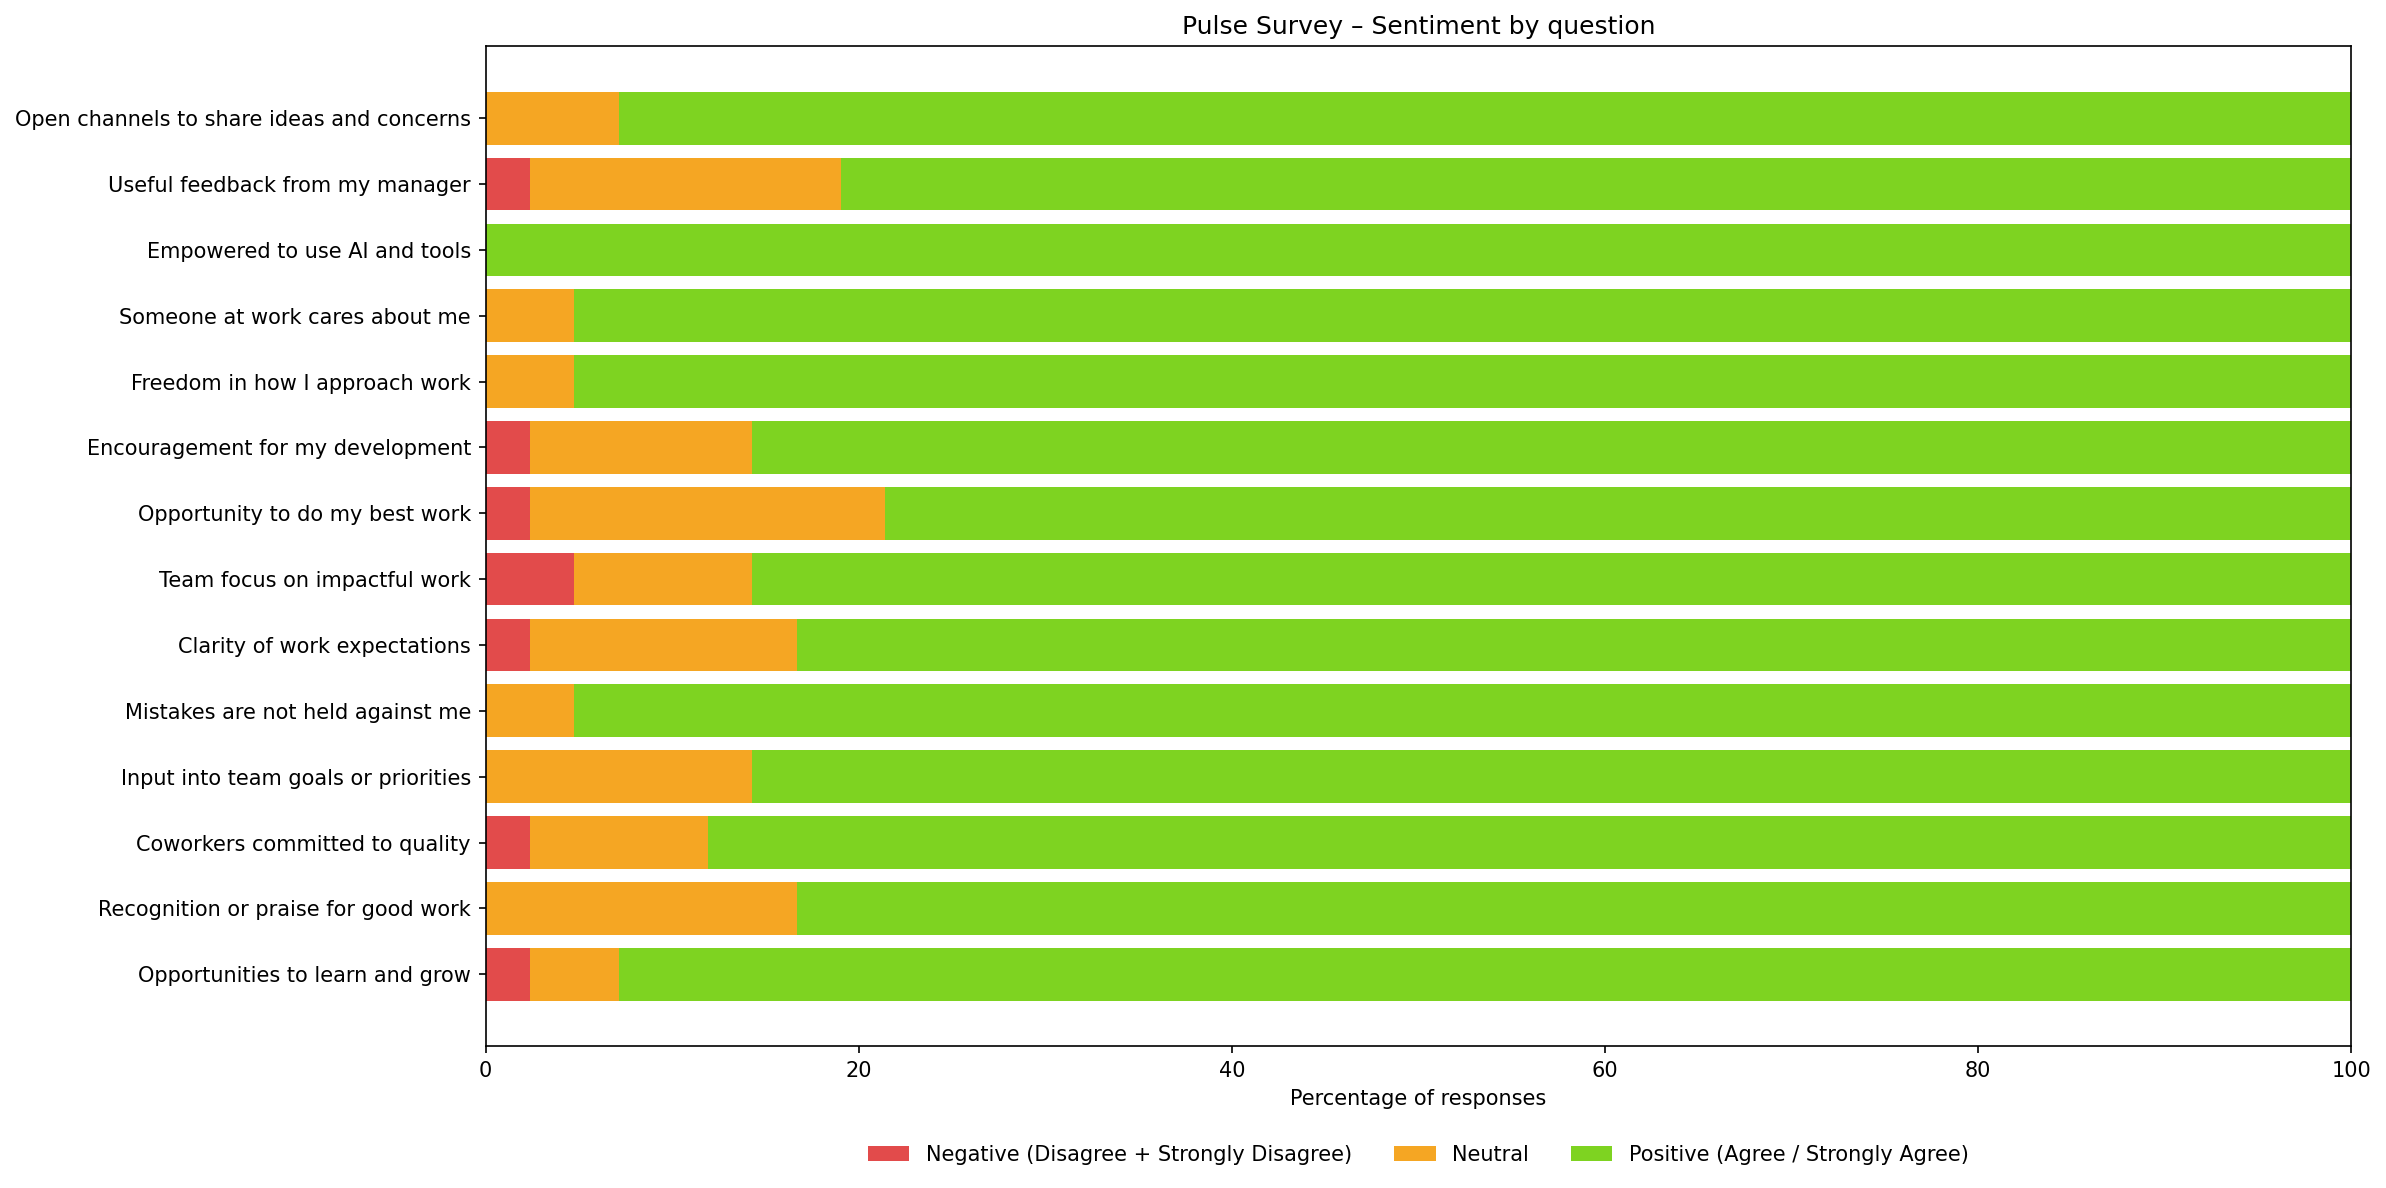
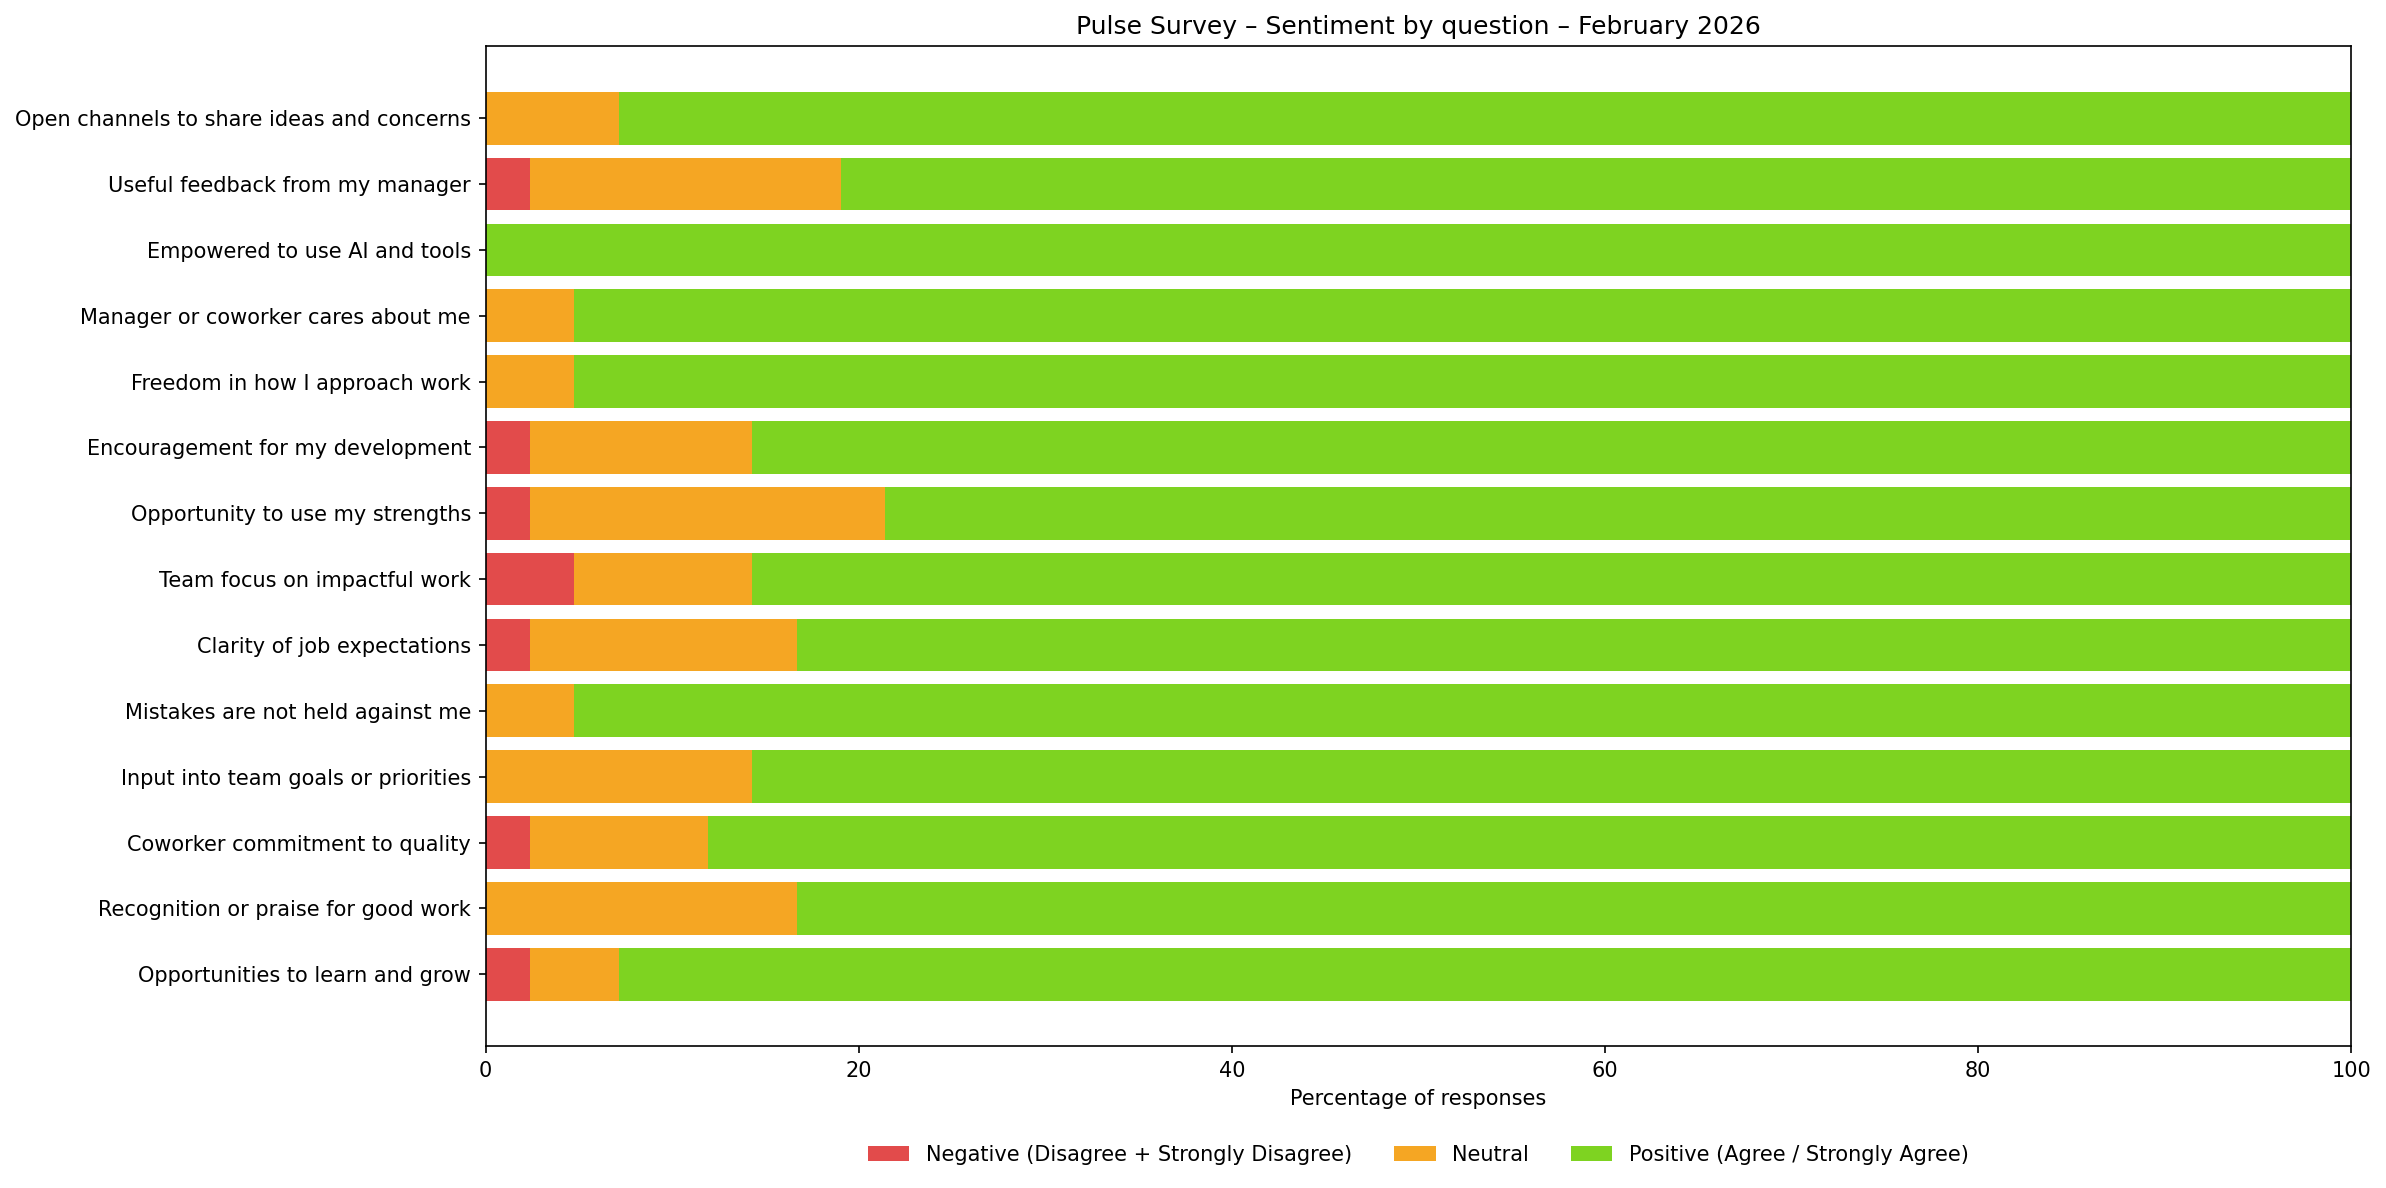
improve titles

diff --git a/pulse-survey-analysis/visualize_survey.py b/pulse-survey-analysis/visualize_survey.py
@@ -138,11 +138,24 @@ def sentiment(value):
     return None
 
 
-def extract_year_from_filename(filepath):
-    """Extract a 4-digit year from the filename only (e.g. '...August 2025.xlsx' -> '2025')."""
+# Month names as they appear in the survey filename (e.g. "...August 2025.xlsx")
+_MONTH_NAMES = (
+    "January", "February", "March", "April", "May", "June",
+    "July", "August", "September", "October", "November", "December",
+)
+
+
+def extract_month_year_from_filename(filepath):
+    """Extract (month, year) from the filename only. Returns (str, str) or (None, str).
+    E.g. '...February 2026.xlsx' -> ('February', '2026'); '...Survey 2025.xlsx' -> (None, '2025').
+    """
     filename = os.path.basename(filepath)
+    for month in _MONTH_NAMES:
+        match = re.search(re.escape(month) + r"\s+(20\d{2})\b", filename, re.IGNORECASE)
+        if match:
+            return (month, match.group(1))
     match = re.search(r"\b(20\d{2})\b", filename)
-    return match.group(1) if match else None
+    return (None, match.group(1)) if match else (None, None)
 
 
 def get_question_columns(df):
@@ -189,8 +202,11 @@ QUESTION_TO_ATTRIBUTE = {
 
 def main():
     os.makedirs(OUTPUT_DIR, exist_ok=True)
-    year = extract_year_from_filename(EXCEL_FILE)
+    month, year = extract_month_year_from_filename(EXCEL_FILE)
     year_suffix = f"-{year}" if year else ""
+    title_suffix = (
+        f" – {month} {year}" if month and year else (f" – {year}" if year else "")
+    )
 
     df = pd.read_excel(EXCEL_FILE, sheet_name=SHEET_NAME)
     question_cols = get_question_columns(df)
@@ -208,7 +224,7 @@ def main():
     pct_neu = 100 * sum(1 for s in all_sentiments if s == "Neutral") / n_total if n_total else 0
     pct_neg = 100 * sum(1 for s in all_sentiments if s == "Negative") / n_total if n_total else 0
 
-    print(f"Overall sentiment breakdown {year_suffix[1:]}")
+    print(f"\nOverall sentiment breakdown – {month} {year_suffix[1:]}")
     print("🟩 {:.0f}% Positive (Agree / Strongly Agree)".format(pct_pos))
     print("🟨 {:.0f}% Neutral".format(pct_neu))
     print("🟥 {:.0f}% Negative (Disagree / Strongly Disagree)".format(pct_neg))
@@ -251,7 +267,7 @@ def main():
     ax.set_xlabel("Percentage of responses")
     ax.set_ylabel("")
     ax.legend(loc="upper center", bbox_to_anchor=(0.5, -0.08), ncol=3, frameon=False)
-    ax.set_title("Pulse Survey – Sentiment by question")
+    ax.set_title("Pulse Survey – Sentiment by question" + title_suffix)
     plt.tight_layout()
     out_path = os.path.join(OUTPUT_DIR, f"responses-horizontal-graph{year_suffix}.png")
     plt.savefig(out_path, dpi=150, bbox_inches="tight")
@@ -315,7 +331,7 @@ def main():
 
         for j in range(len(labels_ordered), len(axes_flat)):
             axes_flat[j].set_visible(False)
-        plt.suptitle("Pulse Survey – Sentiment by question and squad", y=1.02, fontsize=12)
+        plt.suptitle("Pulse Survey – Sentiment by question and squad" + title_suffix, y=1.02, fontsize=12)
         plt.tight_layout()
         out_path_squad = os.path.join(OUTPUT_DIR, f"responses-by-squad{year_suffix}.png")
         plt.savefig(out_path_squad, dpi=150, bbox_inches="tight")
@@ -377,7 +393,7 @@ def main():
     ax3.set_xlim(0, 100)
     ax3.set_xlabel("Percentage of responses")
     ax3.legend(loc="upper center", bbox_to_anchor=(0.5, -0.08), ncol=3, frameon=False)
-    ax3.set_title("Pulse Survey – Sentiment by attribute (department aggregate)")
+    ax3.set_title("Pulse Survey – Sentiment by attribute (department aggregate)" + title_suffix)
     plt.tight_layout()
     out_path_attr = os.path.join(OUTPUT_DIR, f"responses-by-attribute{year_suffix}.png")
     plt.savefig(out_path_attr, dpi=150, bbox_inches="tight")
@@ -397,7 +413,7 @@ def main():
     ax4.set_xticks(angles[:-1])
     ax4.set_xticklabels(attr_order, fontsize=9)
     ax4.set_ylim(0, 100)
-    ax4.set_title("Pulse Survey – Positive % by attribute (radar)", pad=20)
+    ax4.set_title("Pulse Survey – Positive % by attribute (radar)" + title_suffix, pad=20)
     plt.tight_layout()
     out_path_radar = os.path.join(OUTPUT_DIR, f"responses-by-attribute-radar{year_suffix}.png")
     plt.savefig(out_path_radar, dpi=150, bbox_inches="tight")
